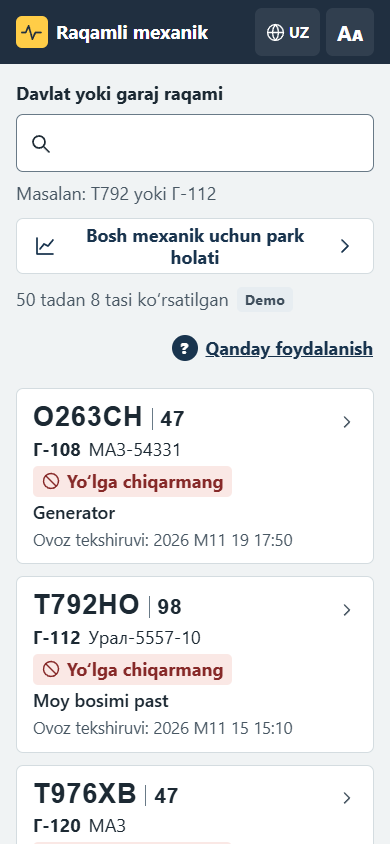
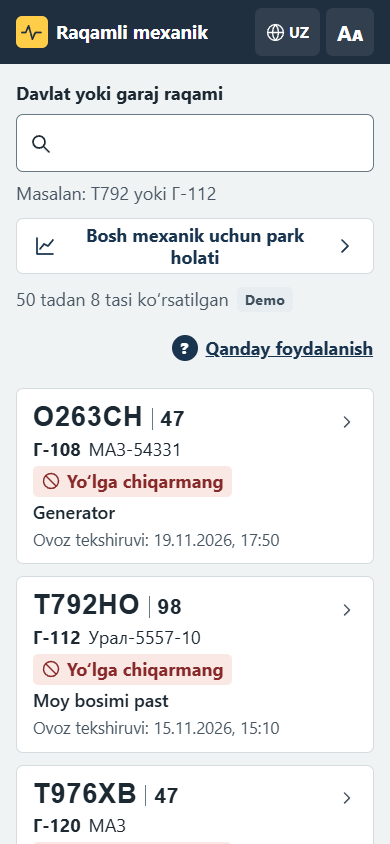
Даты цифрами там, где у браузера нет своих названий месяцев (узбекский, таджикский, кыргызский, казахский)

Changed region(s): [[0.4, 0.8318, 0.6154, 0.8934], [0.4, 0.6161, 0.7385, 0.6469], [0.6154, 0.8318, 0.7385, 0.8934]]

diff --git a/web/app.js b/web/app.js
@@ -35,7 +35,9 @@ const lowerStart = value => lang === 'ru' && value ? value[0].toLocaleLowerCase(
 const qualities = {good: 'good', warning: 'noisy', bad: 'poor'};
 // в браузере может не быть названий месяцев для узбекского, таджикского и т. п. – тогда дата цифрами: 19.11.2026, 17:50
 const formatDate = options => {
-  if (Intl.DateTimeFormat.supportedLocalesOf(lang).length) return new Intl.DateTimeFormat(lang, {timeZone: 'Europe/Moscow', ...options});
+  const probe = new Intl.DateTimeFormat(lang, {month: 'long'});
+  const ownMonths = probe.resolvedOptions().locale.split('-')[0] === lang && !/^M?\d+$/.test(probe.format(new Date(2026, 10, 15)));
+  if (ownMonths) return new Intl.DateTimeFormat(lang, {timeZone: 'Europe/Moscow', ...options});
   const numeric = {...options}; if (numeric.month) numeric.month = '2-digit'; if (numeric.day) numeric.day = '2-digit';
   return new Intl.DateTimeFormat('ru-RU', {timeZone: 'Europe/Moscow', ...numeric});
 };
